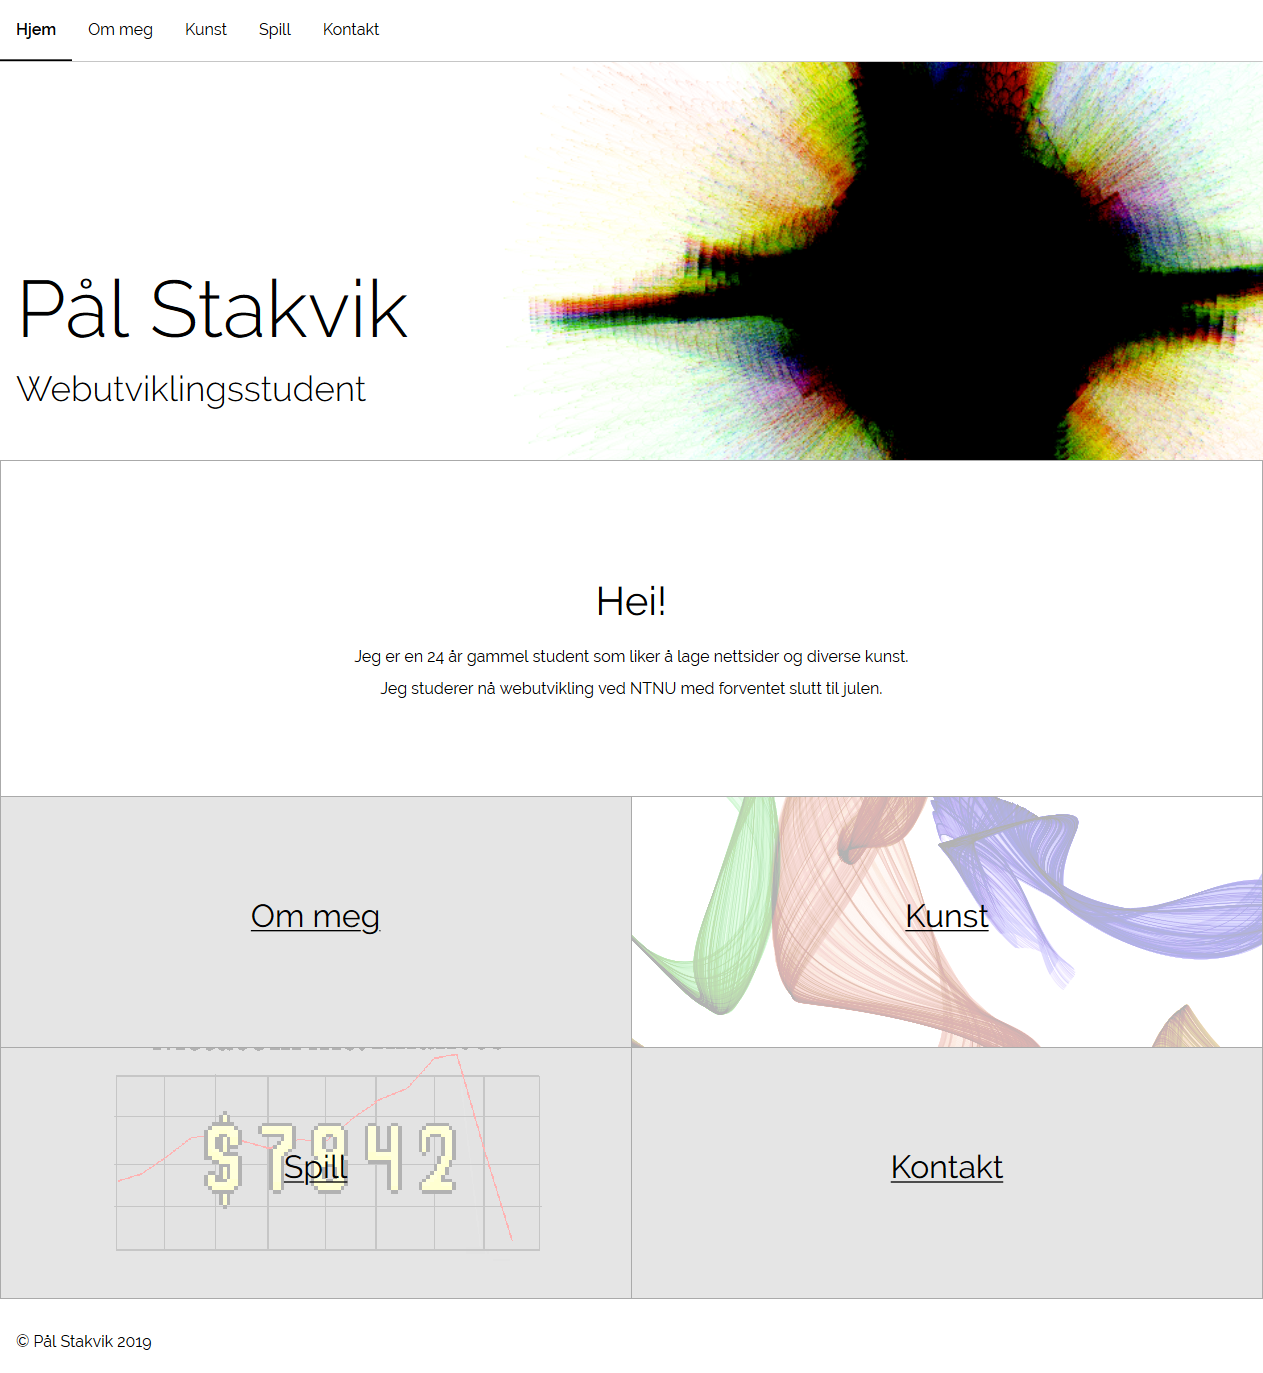
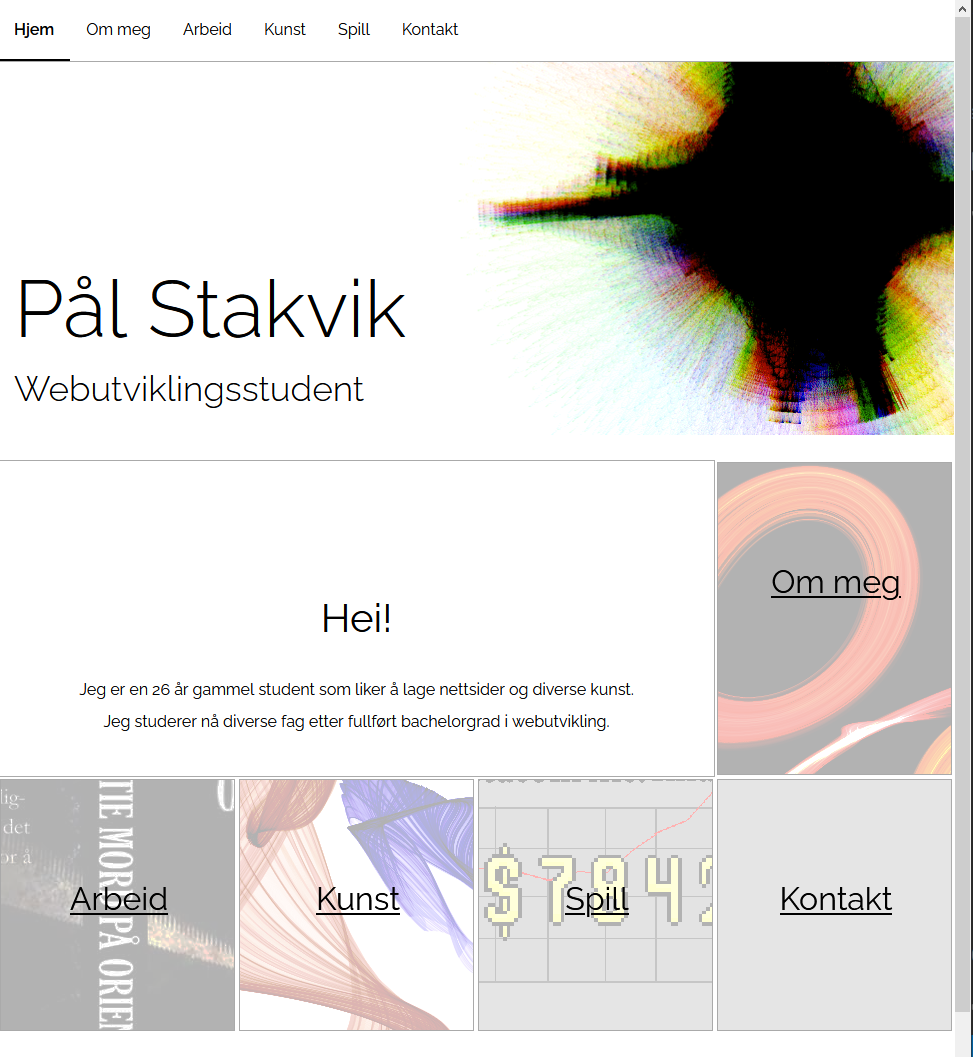
endret meta content, lagde lav-oppløselig versjon av Jr NM bildet, oppdaterte Portfolios siden, la tilbake tekst på home siden

diff --git a/src/pages/Portfolios.js b/src/pages/Portfolios.js
@@ -20,12 +20,19 @@ function Portfolios() {
         </ul>
 
         <p>
-          Den første porteføljen min hvor jeg fokuserer på webutvikling, og som
-          jeg er helt fullstendig fornøyd med. Den forrige fra 2019 (den under)
+          Dette er den første porteføljen min hvor jeg har satt mitt webarbeid
+          mer på "display". Den forrige porteøljen min fra 2019 (den under)
           hadde bare lenker til to nettsider som jeg hadde lagd, lite synlig på
-          "arbeid"-siden. I den nye har jeg lagd et design som putter nettsidene
-          mine mer på "display". De er mer synlige.
+          "arbeid"-siden hvor mitt grafiske arbeid fra videregående tar mest
+          oppmerksomhet.
         </p>
+        {/*
+        <p>
+          Ellers så var jeg misfornøyd med designet og hadde fått tilbakemelding
+          på den forrige porteføljen, så da ble det til at jeg kjørte en{" "}
+          <i>complete redesign</i> av den.
+        </p>
+        */}
 
         <div uk-lightbox="animation: slide">
           <Figure imgSrc={pf5} imgAlt="portefølje 5" caption="portefølje 5" />
@@ -60,8 +67,9 @@ function Portfolios() {
         <p>
           Denne lagde jeg i PHP, mest for å løse for å fikse
           «samme-header-og-footer-på-alle-sidene». Jeg kunne ikke JavaScript så
-          godt på denne tiden, og jeg hadde tilgang på en <i>live</i> server
-          (folk.ntnu.no/paalsst) som støttet PHP.
+          godt på denne tiden, og jeg hadde tilgang på en <i>live server</i>{" "}
+          (folk.ntnu.no/paalsst) som støttet PHP. Så det er grunnen til at det
+          ikke ble en statisk side.
         </p>
 
         <div uk-lightbox="animation: slide">
@@ -159,9 +167,9 @@ function Portfolios() {
         </ul>
 
         <p>
-          Til en skoleoppgave lagde jeg en tresiders portefølje om meg selv og
-          mitt arbeid. Etter å ha levert denne oppgaven endret jeg litt på
-          layout-et.
+          I 2015 gikk jeg på <i>medier og kommunikasjon</i> på Byåsen VGS. Til
+          en skoleoppgave lagde jeg en tresiders portefølje om meg selv og mitt
+          arbeid. Etter å ha levert denne oppgaven endret jeg litt på layout-et.
         </p>
 
         <div uk-lightbox="animation: slide">

diff --git a/src/pages/Artistbooking.js b/src/pages/Artistbooking.js
@@ -18,10 +18,10 @@ function Artistbooking() {
         Verktøy: <li>Adobe XD</li>
       </ul>
       <p>
-        I faget grafiske verktøy, prinsipper og metoder skulle vi lage en
+        I faget "grafiske verktøy, prinsipper og metoder" skulle vi lage en
         klikkbar hi-fi prototype for en app. Appen skulle være musikkrelatert,
         så det endte opp med å bli en app for privatpersoner og musikkartister
-        som kunne avtale spillejobber med hverandre. Jeg forholdte meg til å
+        som kunne avtale spillejobber med hverandre. Jeg bestemte meg til å
         lage mobil- og desktop-visning av alle sidene.
       </p>
       <h3>Noen utvalgte bilder</h3>

diff --git a/src/pagesInfo.js b/src/pagesInfo.js
@@ -15,7 +15,7 @@ import macleanImg from "./images/maclean/alistairmaclean.png";
 import portfoliosImg from "./images/portfolios/pf5.png";
 // graphicwork
 import artistbookingImg from "./images/artistbooking/Android-Mobile–6.png";
-import jrNmImg from "./images/jr-nm-ski/IMG_2413.JPG";
+import jrNmImg from "./images/jr-nm-ski/IMG_2413-min.JPG";
 // other
 import galleryImg from "./images/gallery/gallery1.png";
 

diff --git a/src/pages/JRNM.js b/src/pages/JRNM.js
@@ -1,6 +1,7 @@
-import JRNMImg from "../images/jr-nm-ski/IMG_2413.JPG";
+import JRNMImg from "../images/jr-nm-ski/IMG_2413-min.JPG";
 import JRNMImg2 from "../images/jr-nm-ski/JrNM-logo-web.jpg";
 import JRNMImg3 from "../images/jr-nm-ski/velkommen-til-Jr-NM-Jervskogen.jpg";
+// import remake from "../images/jr-nm-ski/jrnmlogo-ai-remake.png";
 
 import Figure from "../components/common/Figure";
 

diff --git a/src/pages/Home.js b/src/pages/Home.js
@@ -38,7 +38,11 @@ function Home() {
         />
       </div>
 
-      <h2 className="mb-50">Nettsider</h2>
+      <h2>Nettsider</h2>
+      <p className="mb-50">
+        Her er noen nettsider som jeg er stolt av å ha laget / bidratt på og som
+        jeg har skrevet litt om.
+      </p>
       <WebworkLinks />
 
       <h2 className="mb-50">Grafisk</h2>

diff --git a/public/index.html b/public/index.html
@@ -7,7 +7,7 @@
     <meta name="theme-color" content="#000000" />
     <meta
       name="description"
-      content="Webutvikler med erfaring i frontend og backend"
+      content="Erfaring med frontend og backend: React, HTML, CSS, MySQL ..."
     />
     <link rel="apple-touch-icon" href="%PUBLIC_URL%/favicon.ico" />
     <!--
